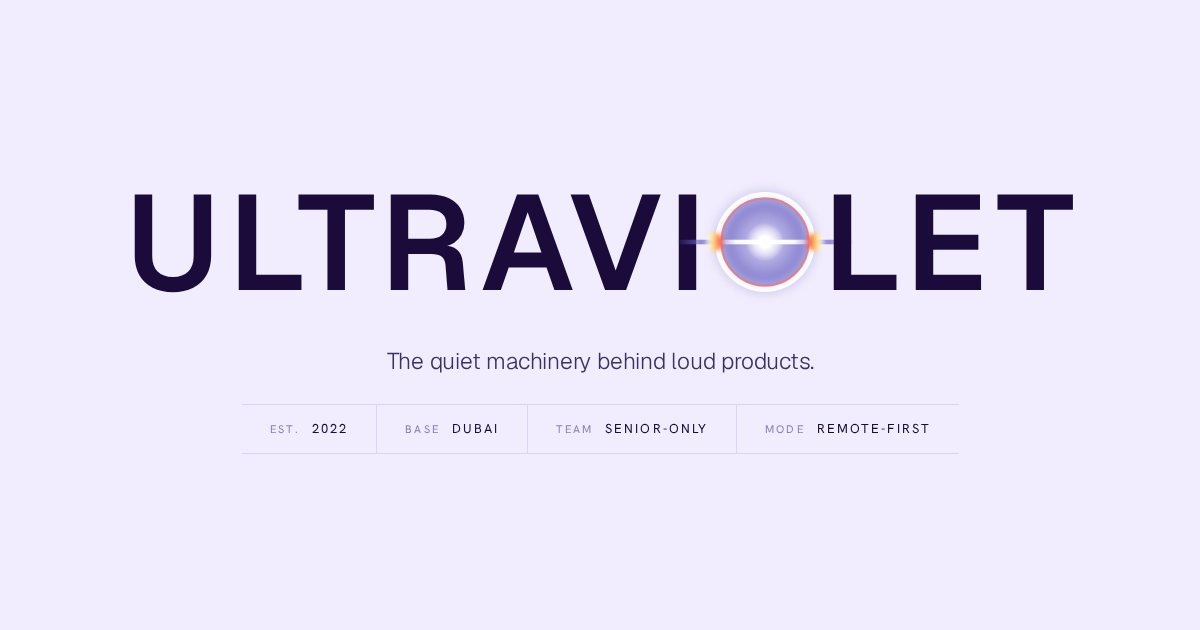
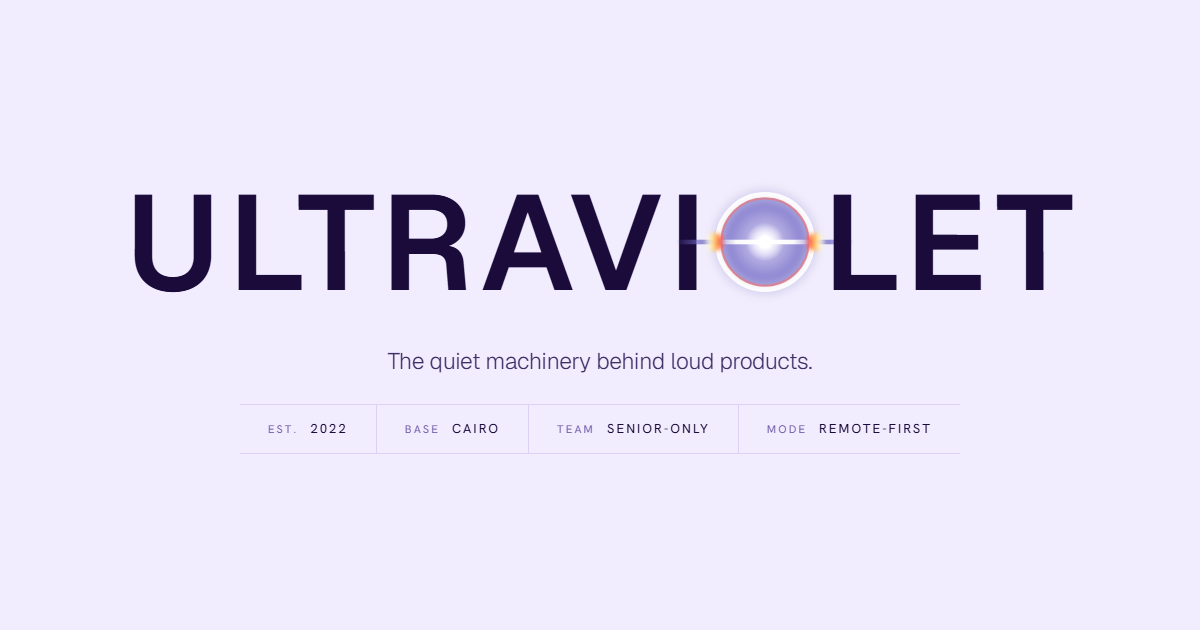
Content and config changes from the owner
- Cairo instead of Dubai: page copy, title and description, JSON-LD
  (addressCountry EG), llms.txt, manifest; og-image.png re-rendered from the
  end card by scripts/og-image.mjs
- reFind Outlet replaces shop.co, linking to refindoutlet.com; the other
  projects link to their demos; Zanobia is in progress, started 2026, so the
  range reads 2024 - 2026
- Karim Badr's testimonial removed; testimonials in two columns
- the form button reads "Beam it over"
- no hairline between the contact section and the footer
- env vars CONTACT_FROM_EMAIL (default: Resend's sandbox sender) and
  CONTACT_TO_EMAIL, the names the Vercel project already uses
- vercel.json pins install and build commands (the project was Next.js)
- parity test applies these intended changes to the reference

diff --git a/tests/parity.spec.ts b/tests/parity.spec.ts
@@ -8,6 +8,7 @@ import { expect, test } from '@playwright/test'
 import type { Page } from '@playwright/test'
 import pixelmatch from 'pixelmatch'
 import { PNG } from 'pngjs'
+import content from '../src/content/content.json' with { type: 'json' }
 
 const REFERENCE = pathToFileURL(resolve('handoff/design/reference/ultravi0let-final.html')).href
 const OUT = resolve('test-results/parity')
@@ -30,6 +31,36 @@ async function serveFonts(page: Page) {
     return r.fulfill({ contentType: 'font/woff2', body: readFileSync(FONTS[i][1]), headers: { 'access-control-allow-origin': '*' } })
   })
   await page.route('https://fonts.gstatic.com/**', (r) => r.abort())
+}
+
+/* The approved reference predates some deliberate changes. They are applied to the reference page before comparing,
+   so every other pixel is still held to an exact match:
+   - the --faint contrast fix (BRIEF §5)
+   - the owner's copy changes (content.json: Cairo, reFind Outlet, Zanobia in progress, the form button, two
+     testimonials) and style changes (no hairline above the footer, two testimonial columns) */
+async function applyIntendedChanges(page: Page) {
+  await page.addStyleTag({ content: ':root:not([data-theme="dark"]){--faint:#7262AC}.site-foot{border-top:0}.quotes{grid-template-columns:repeat(2,minmax(0,1fr))}@media (max-width:880px){.quotes{grid-template-columns:1fr}}' })
+  await page.evaluate((c) => {
+    const text = (sel: string, t: string) => document.querySelectorAll(sel).forEach((el) => { el.textContent = t })
+    const p = c.work.projects
+    text('.stats-strip > div:nth-child(2) .v', c.site.base)
+    text('.work-hint .eyebrow:first-of-type', c.work.hint[0])
+    p.forEach((pr, i) => {
+      text(`#work-index .row:nth-child(${i + 1}) .row-name`, pr.name)
+      text(`#work-index .row:nth-child(${i + 1}) .tags`, `${pr.status} · ${pr.tags}`)
+      text(`#work-index .row:nth-child(${i + 1}) .year`, pr.year)
+    })
+    text('#v-status', p[0].status)
+    text('#v-tags', p[0].tags)
+    text('#v-year', p[0].year)
+    text('#v-name', p[0].name)
+    text('#v-desc', p[0].description)
+    document.getElementById('v-stats')!.innerHTML = p[0].stats.map((s) => `<span><b>${s.value}</b> ${s.label}</span>`).join('')
+    text('.form .btn', c.contact.form.submit)
+    text('.foot-bottom .copyr', c.footer.copyright)
+    text('.mn-loc', c.menu.location)
+    document.querySelectorAll('.quote').forEach((q, i) => { if (i >= c.testimonials.items.length) q.remove() })
+  }, content)
 }
 
 type Shot = { name: string; scroll: (p: Page) => Promise<number>; canvas?: string }
@@ -85,8 +116,7 @@ for (const mode of MODES) {
       if (isBuild) await page.addInitScript(() => { window.__uvAllowSoftwareGL = true; window.__uvFixedQuality = true })
       await page.goto(url, { waitUntil: 'networkidle' })
       await page.evaluate(() => document.fonts.ready)
-      /* intended difference 1: the --faint contrast fix (BRIEF §5), applied to the reference so it isn't reported */
-      if (!isBuild) await page.addStyleTag({ content: ':root:not([data-theme="dark"]){--faint:#7262AC}' })
+      if (!isBuild) await applyIntendedChanges(page)
       expect(await page.evaluate(() => !!document.createElement('canvas').getContext('webgl')), 'WebGL must be available').toBe(true)
       if (isBuild) await page.waitForSelector('#sky[data-gl="1"]')
       return page

diff --git a/src/lib/seo.ts b/src/lib/seo.ts
@@ -6,8 +6,8 @@ import { hero, services, site } from '../content/content'
 export const SITE_URL = 'https://www.ultravi0let.com'
 
 export const SEO = {
-  title: 'Ultravi0let — Product design & engineering studio in Dubai',
-  description: 'We build the quiet machinery behind loud products. A senior-only studio in Dubai for design, engineering, cloud and AI, from first prototype to production.',
+  title: 'Ultravi0let — Product design & engineering studio in Cairo',
+  description: 'We build the quiet machinery behind loud products. A senior-only studio in Cairo for design, engineering, cloud and AI, from first prototype to production.',
   image: { path: '/og-image.png', width: 1200, height: 630, alt: 'ULTRAVI0LET — the quiet machinery behind loud products.' },
   themeColor: { light: '#F2EDFE', dark: '#110E2A' },
   alternateNames: ['ULTRAVI0LET', 'Ultraviolet', 'Ultraviolet Studio'],
@@ -62,7 +62,7 @@ export function jsonLd(path = '/', { title = SEO.title, description = SEO.descri
         slogan: hero.endcard.tagline,
         email: site.email,
         foundingDate: site.founded,
-        address: { '@type': 'PostalAddress', addressLocality: site.base, addressCountry: 'AE' },
+        address: { '@type': 'PostalAddress', addressLocality: site.base, addressCountry: 'EG' },
         areaServed: 'Worldwide',
         knowsAbout: services.items.map((s) => s.name),
         contactPoint: [{ '@type': 'ContactPoint', contactType: 'sales', email: site.email, availableLanguage: ['English'] }],

diff --git a/tests/seo.test.ts b/tests/seo.test.ts
@@ -13,8 +13,8 @@ const attr = (re: RegExp) => head.match(re)?.[1]
 test('build output exists', () => assert.ok(DIR, 'run the build first'))
 
 test('title, description and canonical', () => {
-  assert.equal(attr(/<title>([^<]*)<\/title>/), 'Ultravi0let — Product design &amp; engineering studio in Dubai')
-  assert.equal(attr(/<meta name="description" content="([^"]*)"/), 'We build the quiet machinery behind loud products. A senior-only studio in Dubai for design, engineering, cloud and AI, from first prototype to production.')
+  assert.equal(attr(/<title>([^<]*)<\/title>/), 'Ultravi0let — Product design &amp; engineering studio in Cairo')
+  assert.equal(attr(/<meta name="description" content="([^"]*)"/), 'We build the quiet machinery behind loud products. A senior-only studio in Cairo for design, engineering, cloud and AI, from first prototype to production.')
   assert.equal((head.match(/rel="canonical"/g) ?? []).length, 1)
   assert.equal(attr(/<link rel="canonical" href="([^"]*)"/), `${SITE}/`)
   assert.equal((head.match(/<title>/g) ?? []).length, 1)
@@ -43,7 +43,7 @@ test('one JSON-LD graph: Organization, WebSite, WebPage; no Review or FAQ', () =
   assert.ok(!/Review|AggregateRating|FAQPage/.test(blocks[0][1]))
   const org = g['@graph'][0]
   assert.deepEqual(org.alternateName, ['ULTRAVI0LET', 'Ultraviolet', 'Ultraviolet Studio'])
-  assert.equal(org.address.addressCountry, 'AE')
+  assert.equal(org.address.addressCountry, 'EG')
   assert.equal(org.knowsAbout.length, 8)
 })
 

diff --git a/src/server/contact.ts b/src/server/contact.ts
@@ -30,8 +30,9 @@ export const sendContact = createServerFn({ method: 'POST' })
 
     const key = process.env.RESEND_API_KEY
     if (!key) { console.error('[contact] RESEND_API_KEY is not set'); return { ok: false, reason: 'unavailable' } }
-    const to = process.env.CONTACT_TO || 'hello@ultravi0let.com'
-    const from = process.env.CONTACT_FROM || 'Ultravi0let website <site@ultravi0let.com>'
+    /* read per request, inside the handler (never at module scope, which the browser build also sees) */
+    const FROM = process.env.CONTACT_FROM_EMAIL ?? 'Ultravi0let <onboarding@resend.dev>'
+    const TO = process.env.CONTACT_TO_EMAIL ?? 'hello@ultravi0let.com'
 
     const rows: [string, string][] = [['Name', data.name], ['Company', data.company], ['Email', data.email], ['Project', data.project]]
     const filled = rows.filter(([, v]) => v)
@@ -40,8 +41,8 @@ export const sendContact = createServerFn({ method: 'POST' })
 
     try {
       const { error } = await new Resend(key).emails.send({
-        from,
-        to,
+        from: FROM,
+        to: TO,
         replyTo: data.email,
         subject: `New enquiry: ${data.name}${data.company ? ` — ${data.company}` : ''}`,
         text,

diff --git a/src/sections/Work.tsx b/src/sections/Work.tsx
@@ -100,7 +100,11 @@ export function Work({ ref }: { ref?: Ref<HTMLElement> }) {
           <div className={fading ? 'v-read fade' : 'v-read'}>
             {P.map((p, i) => (
               <div key={p.n} role="tabpanel" id={`work-panel-${p.n}`} aria-labelledby={`work-tab-${p.n}`} hidden={i !== shown}>
-                <div className="v-head"><h3 className="v-name">{p.name}</h3><a className="v-link" href="#contact">{work.viewer.link}</a></div>
+                <div className="v-head">
+                  <h3 className="v-name">{p.name}</h3>
+                  {/* a client's own site opens in a new tab; our demo pages open here */}
+                  <a className="v-link" href={p.url} {...(p.url.startsWith('/') ? {} : { target: '_blank', rel: 'noopener' })}>{work.viewer.link}</a>
+                </div>
                 <p className="v-desc">{p.description}</p>
                 <div className="stats">
                   {p.stats.map((st) => <span key={st.label}><b>{st.value}</b>{` ${st.label}`}</span>)}

diff --git a/src/styles/build.css b/src/styles/build.css
@@ -86,6 +86,13 @@ h1 .type{position:relative}
   .v-art{aspect-ratio:auto;height:max(120px,100svh - 254px)}
 }
 
+/* ---------------- owner's changes to the approved page ---------------- */
+/* no hairline between the contact section and the footer */
+.site-foot{border-top:0}
+/* two testimonials now: two columns, not three with one empty */
+.quotes{grid-template-columns:repeat(2,minmax(0,1fr))}
+@media (max-width:880px){.quotes{grid-template-columns:1fr}}
+
 /* ---------------- contact form (§10) ---------------- */
 .hp{position:absolute;width:1px;height:1px;margin:-1px;padding:0;overflow:hidden;clip-path:inset(50%);white-space:nowrap;border:0}
 /* sending: the button's own sheen sweeps on a loop */

diff --git a/tests/interactions.spec.ts b/tests/interactions.spec.ts
@@ -171,7 +171,7 @@ test.describe('phone menu', () => {
     await expect(page.locator('#menu-close')).toBeFocused()
     await page.click('#mnav .mn-list a[href="#services"]')
     await expect(page.locator('#mnav')).not.toHaveClass(/show/)
-    await expect.poll(() => page.evaluate(() => Math.abs(document.getElementById('services')!.getBoundingClientRect().top)), { timeout: 5000 }).toBeLessThan(4)
+    await expect.poll(() => page.evaluate(() => Math.abs(document.getElementById('services')!.getBoundingClientRect().top)), { timeout: 10_000 }).toBeLessThan(4)
   })
 
   test('the menu switch changes the theme too', async ({ page }) => {

diff --git a/tests/contact.spec.ts b/tests/contact.spec.ts
@@ -56,7 +56,7 @@ test('sends the enquiry through Resend, then thanks the visitor and clears the f
   const { auth, body } = sent[0]
   expect(auth).toBe('Bearer re_test')
   expect(body).toMatchObject({
-    from: 'Ultravi0let website <site@ultravi0let.com>',
+    from: 'Ultravi0let <onboarding@resend.dev>',
     to: 'hello@ultravi0let.com',
     reply_to: 'ada@example.com',
     subject: 'New enquiry: Ada Lovelace — Analytical Engines',

diff --git a/CLAUDE.md b/CLAUDE.md
@@ -1,6 +1,6 @@
 # ULTRAVI0LET website
 
-Marketing site for Ultravi0let, a senior-only product studio in Dubai. React 19 + TanStack Start + TypeScript,
+Marketing site for Ultravi0let, a senior-only product studio in Cairo. React 19 + TanStack Start + TypeScript,
 prerendered to static HTML, deployed on Vercel (Nitro), contact form via Resend.
 
 The approved design and the full spec live in `handoff/`. Read `handoff/docs/BRIEF.md` before starting any task;
